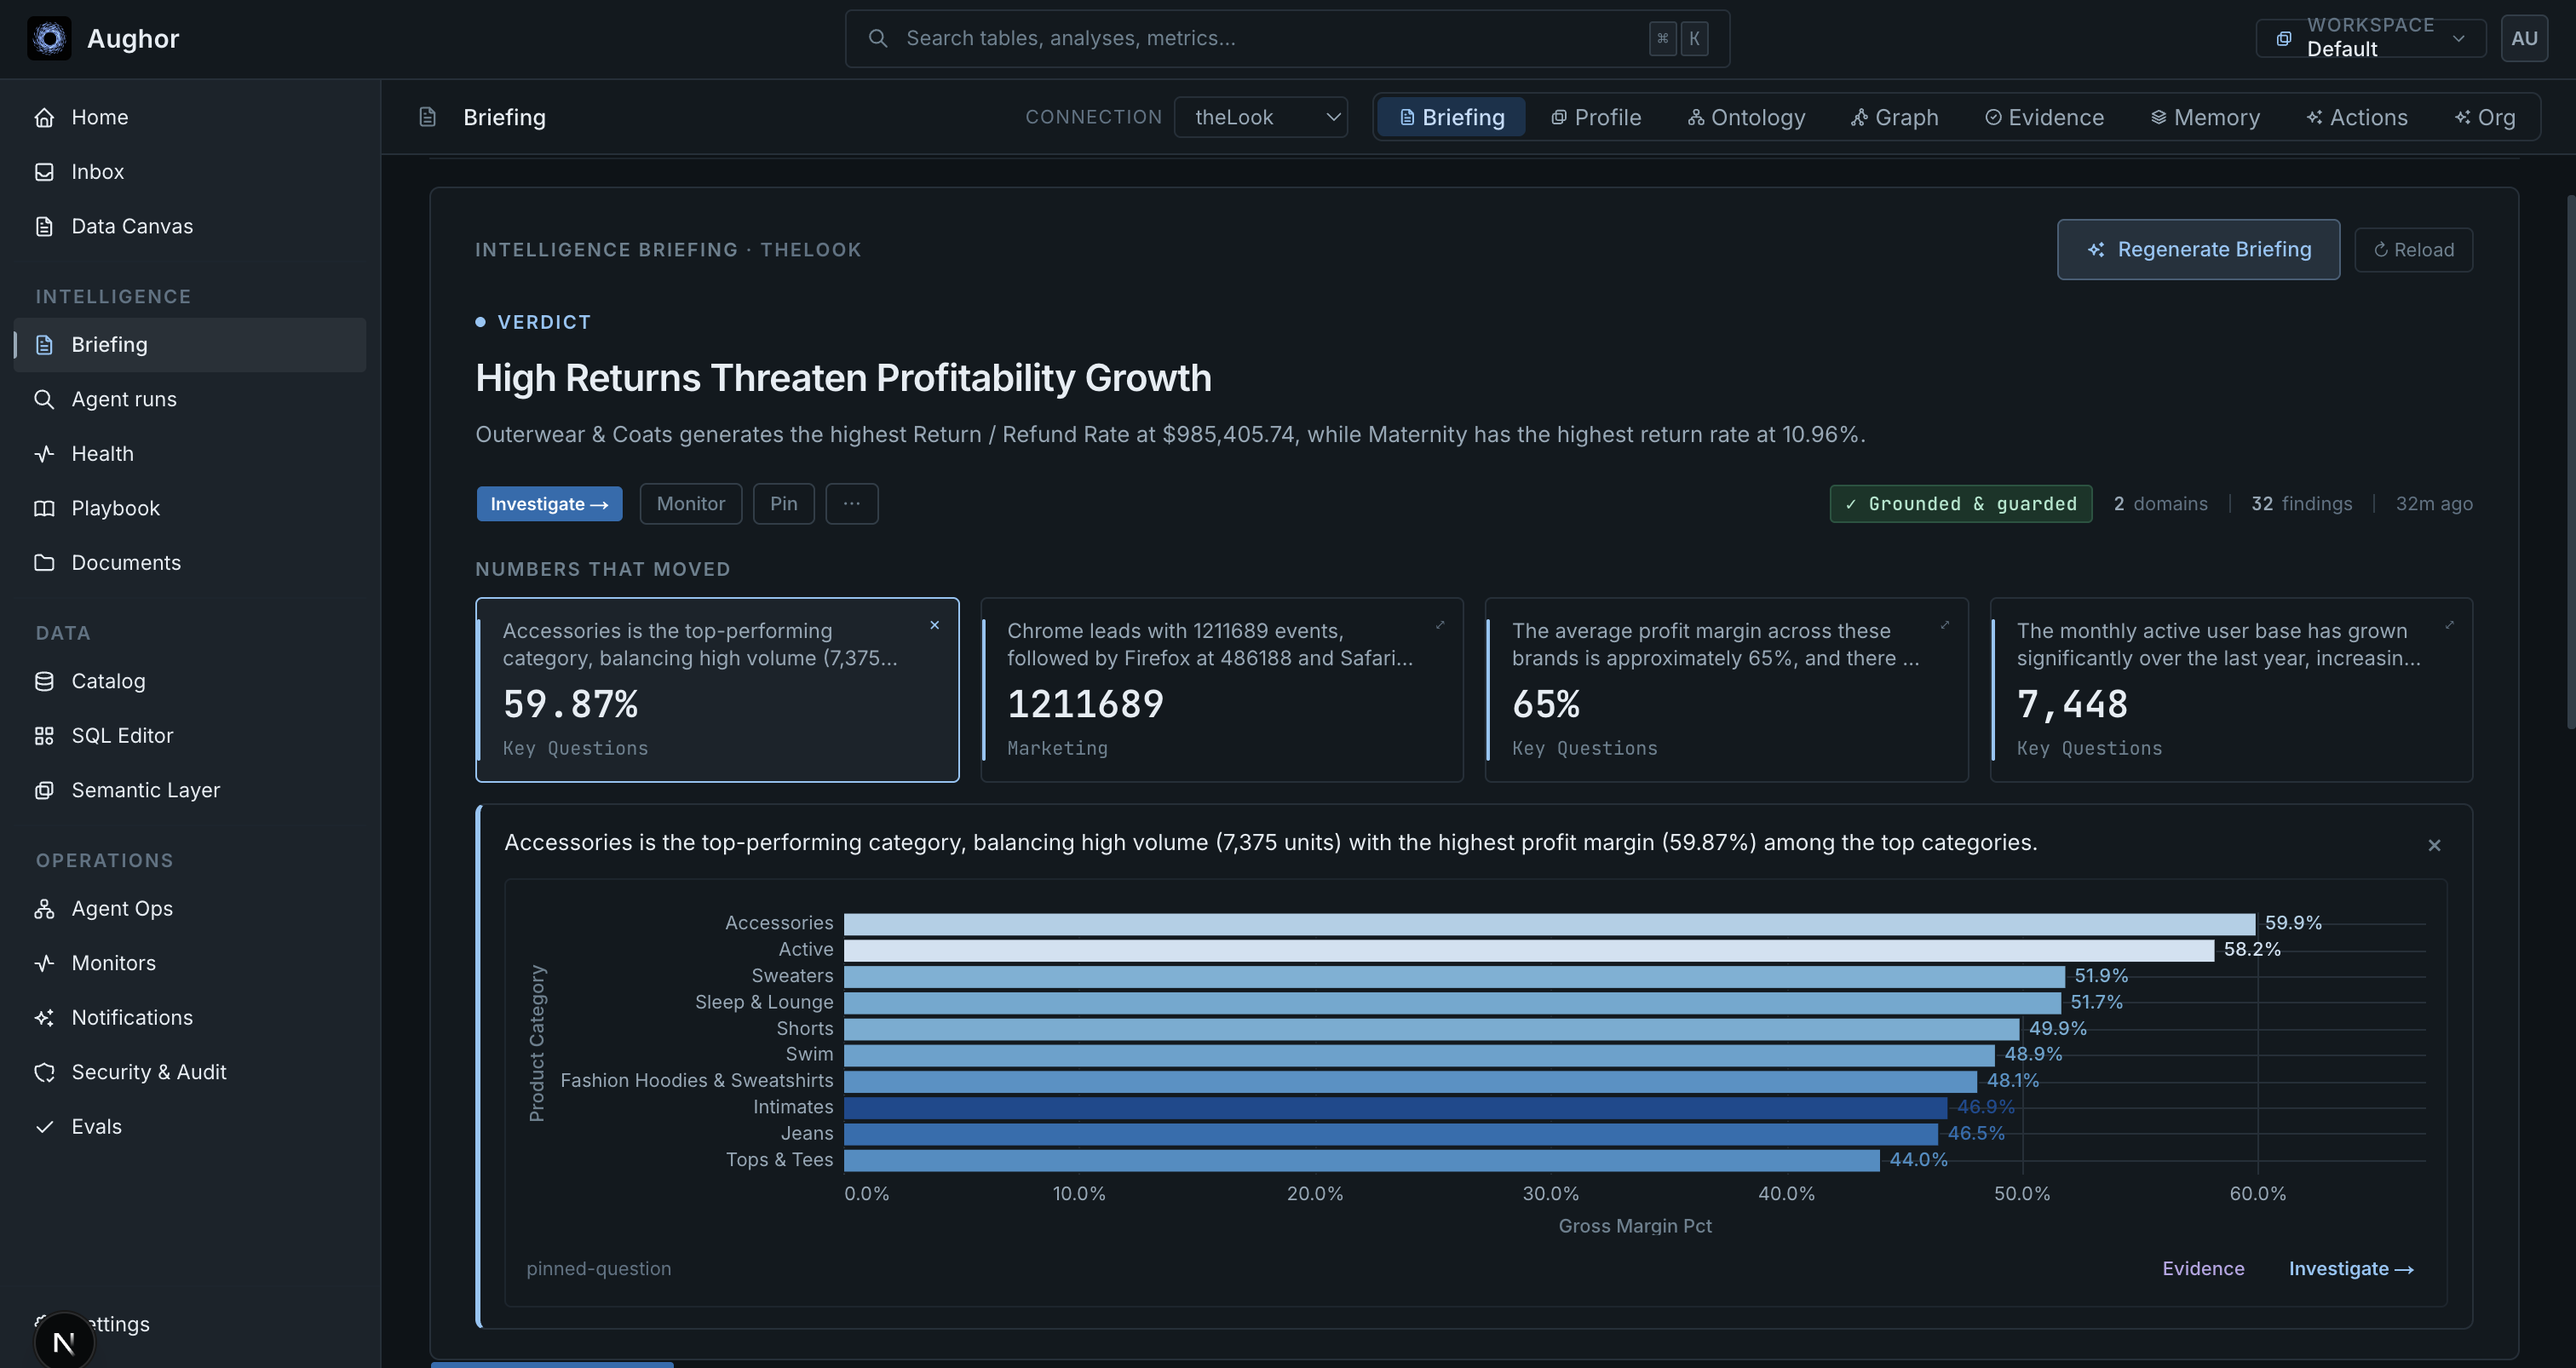
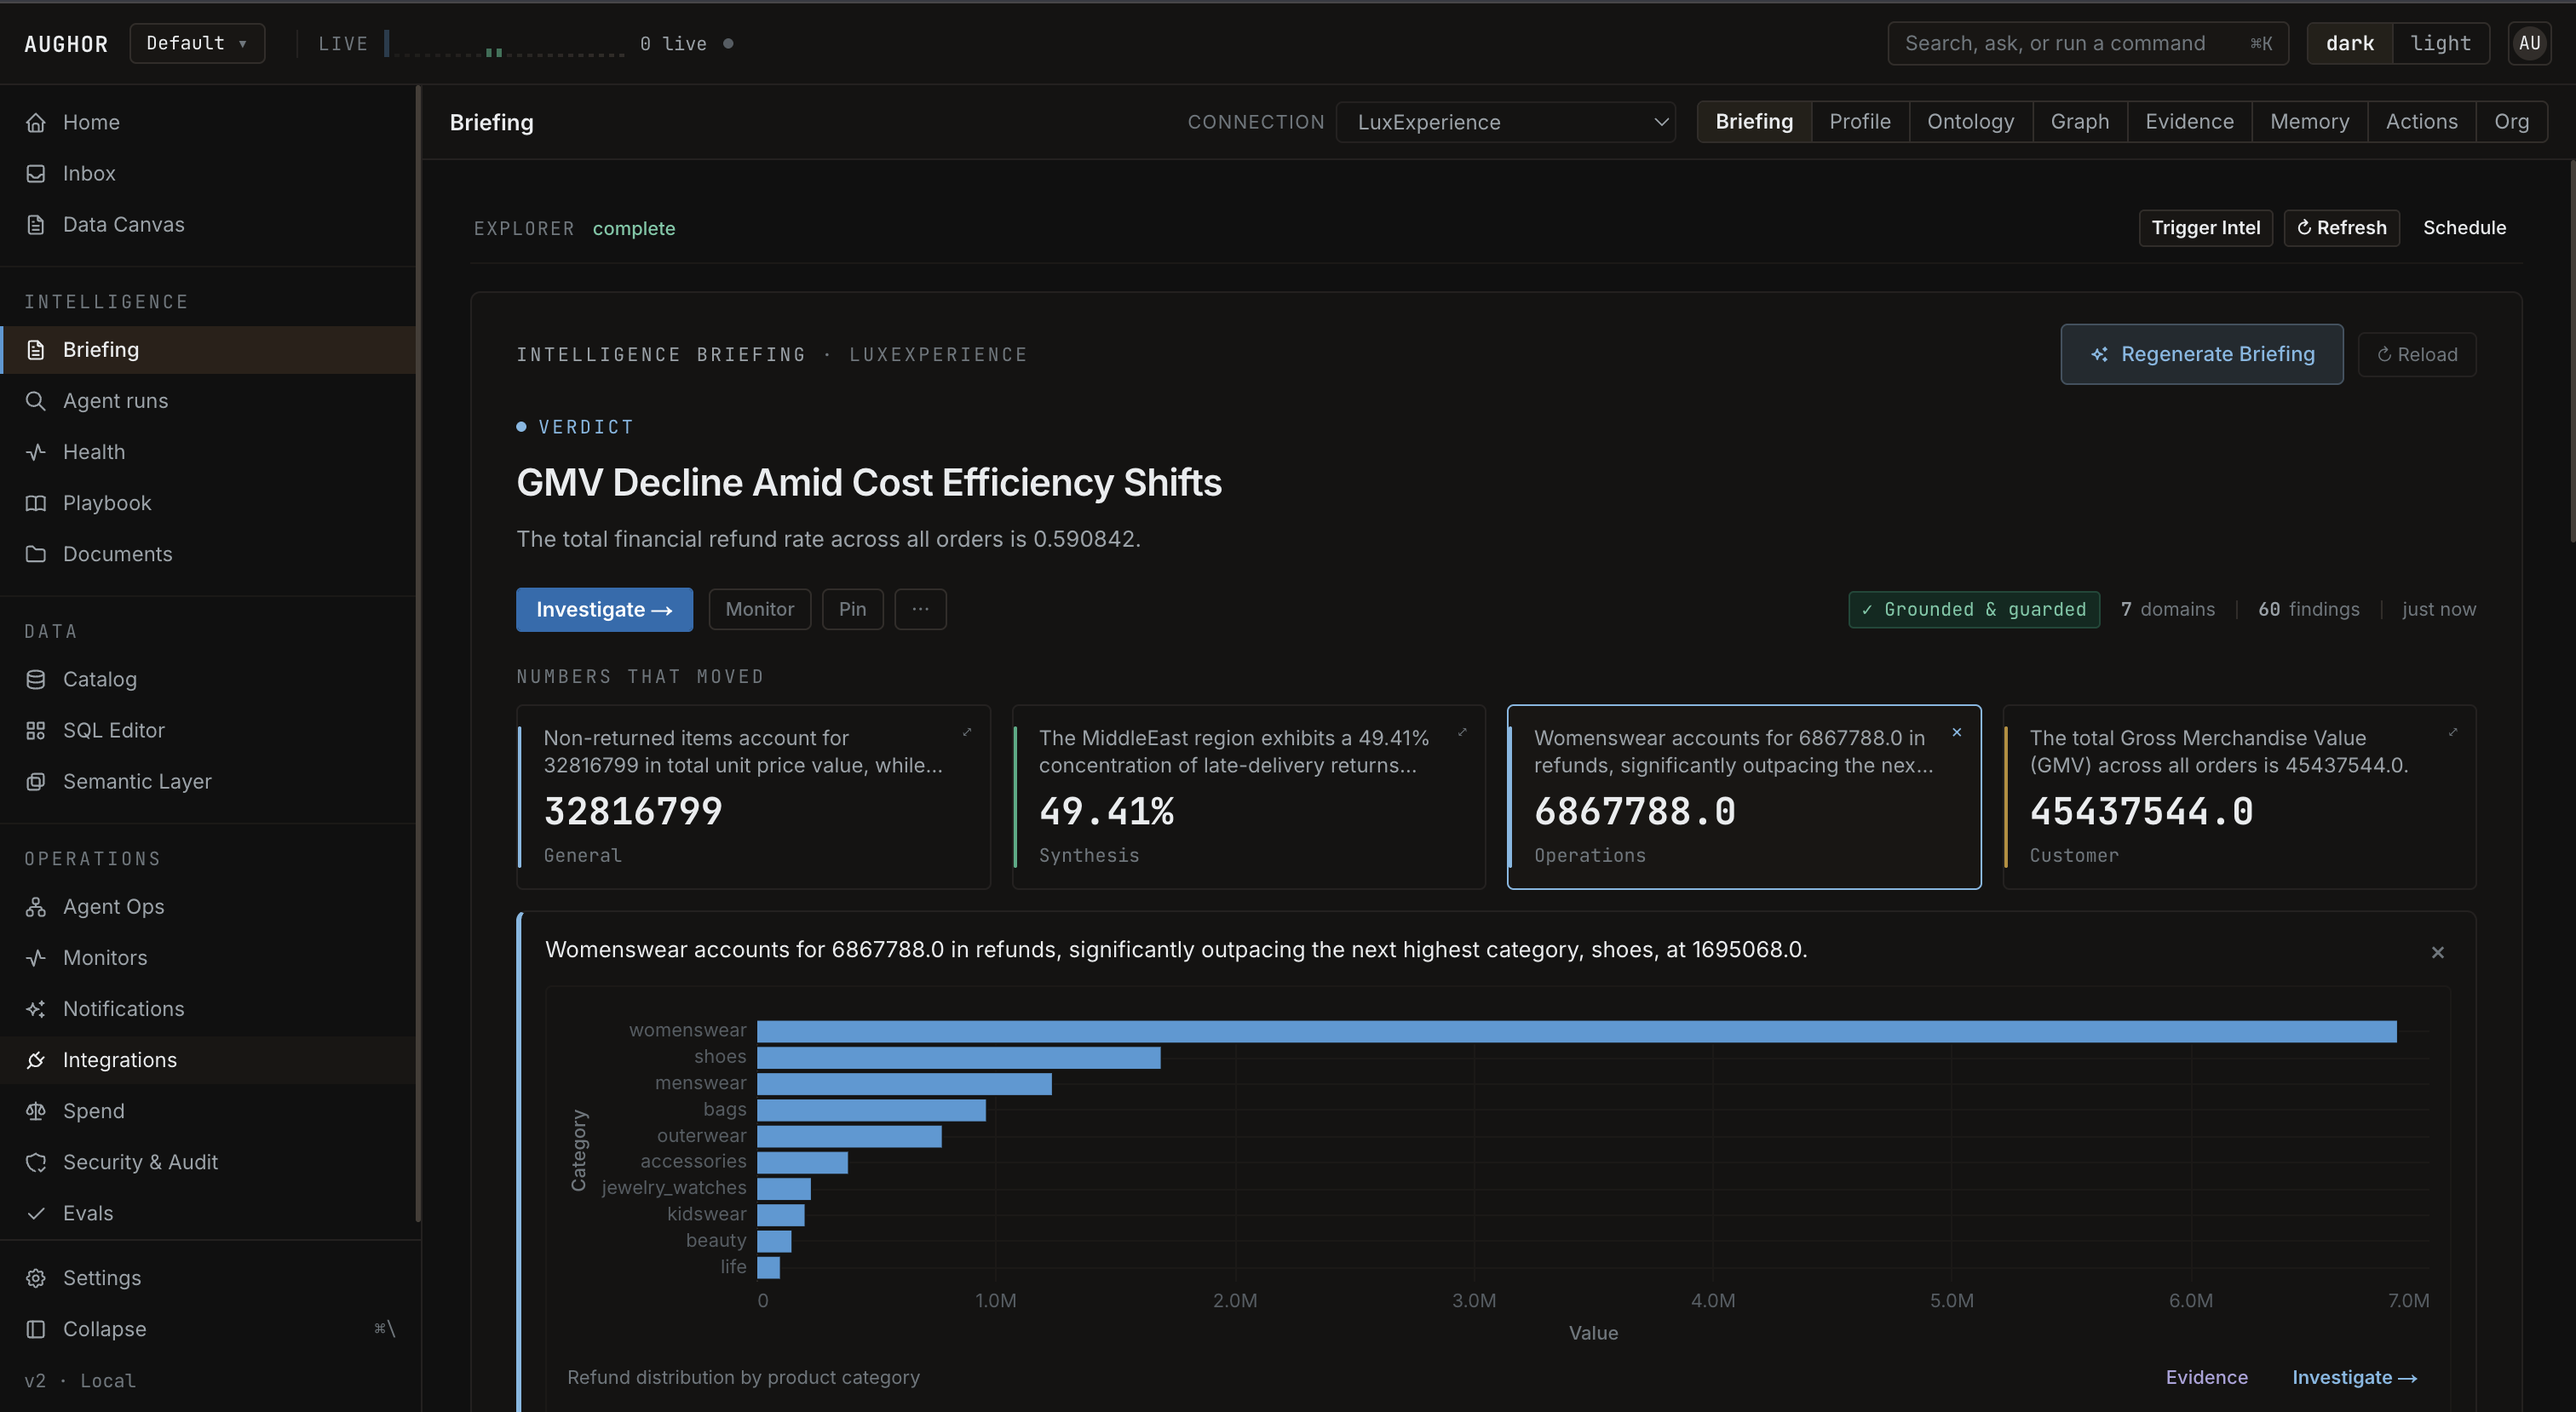
README: the briefing screenshot is the latest view — the LuxExperience Briefing
The image shows the current Briefing on LuxExperience: the verdict, the numbers that moved and a grounded chart.
The alt text named a live BigQuery warehouse; it now names LuxExperience.

diff --git a/README.md b/README.md
@@ -19,7 +19,7 @@
     <a href="FEATURES.md"><strong>Features</strong></a>
   </p>
 
-  <img src="docs/readme/briefing.png" width="900" alt="Aughor's intelligence briefing on a live BigQuery warehouse — verdict, moved numbers, and a grounded chart, every figure backed by a query" />
+  <img src="docs/readme/briefing.png" width="900" alt="Aughor's intelligence briefing on LuxExperience — the verdict, the numbers that moved, and a grounded chart, every figure backed by a query" />
 </div>
 
 ---
